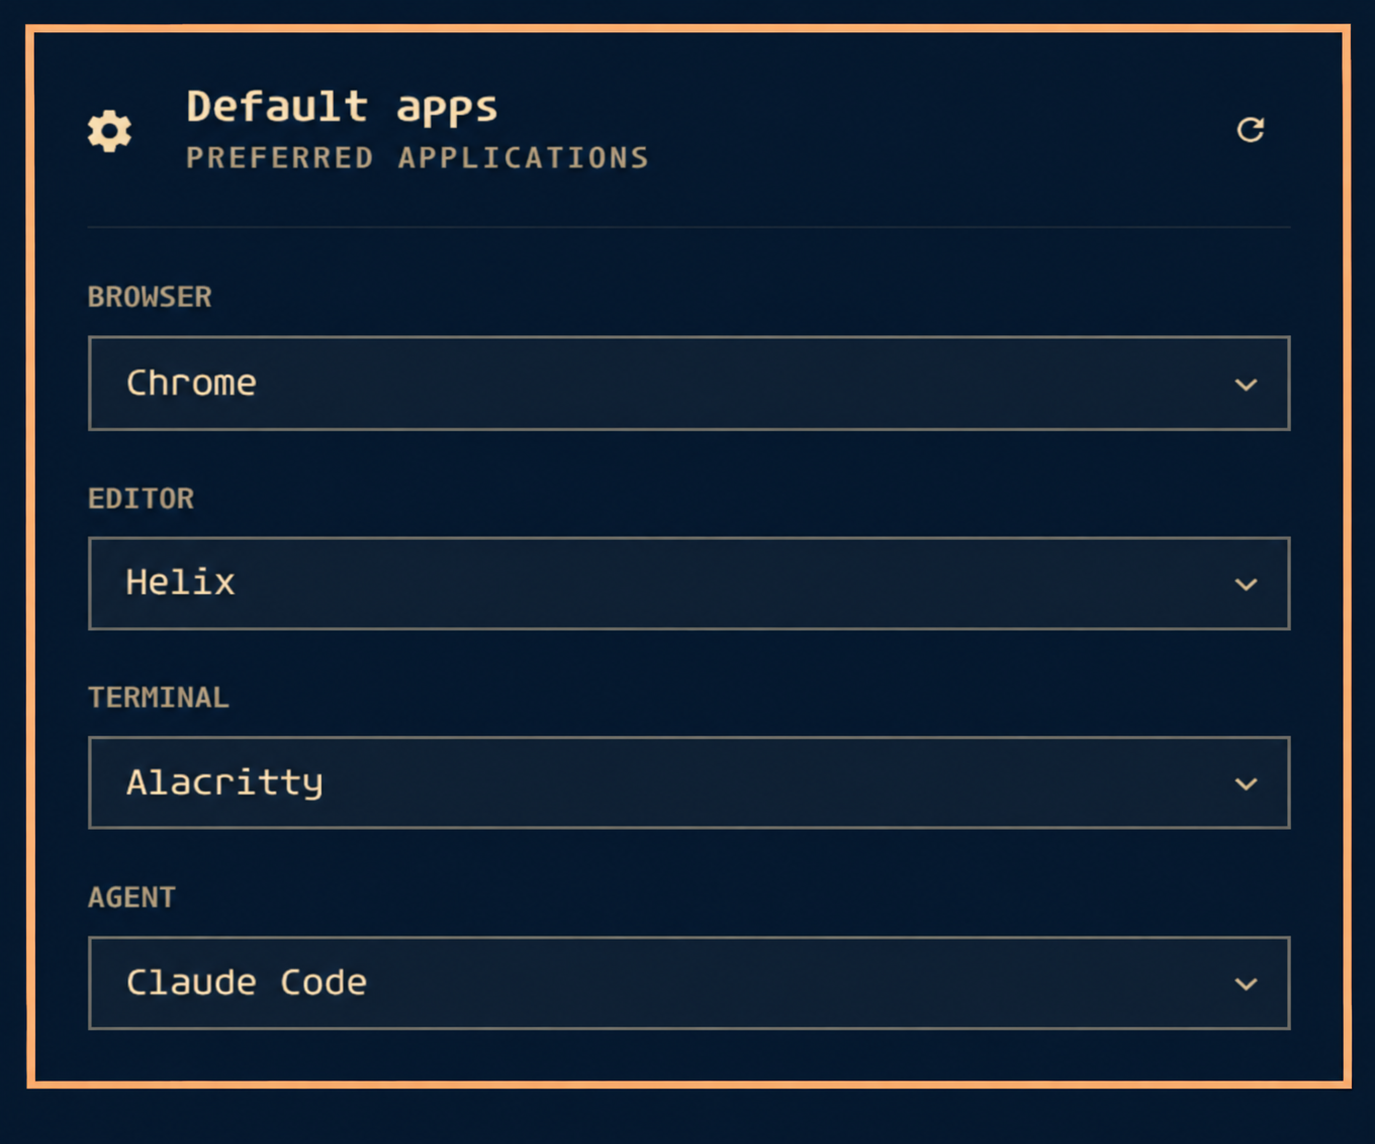
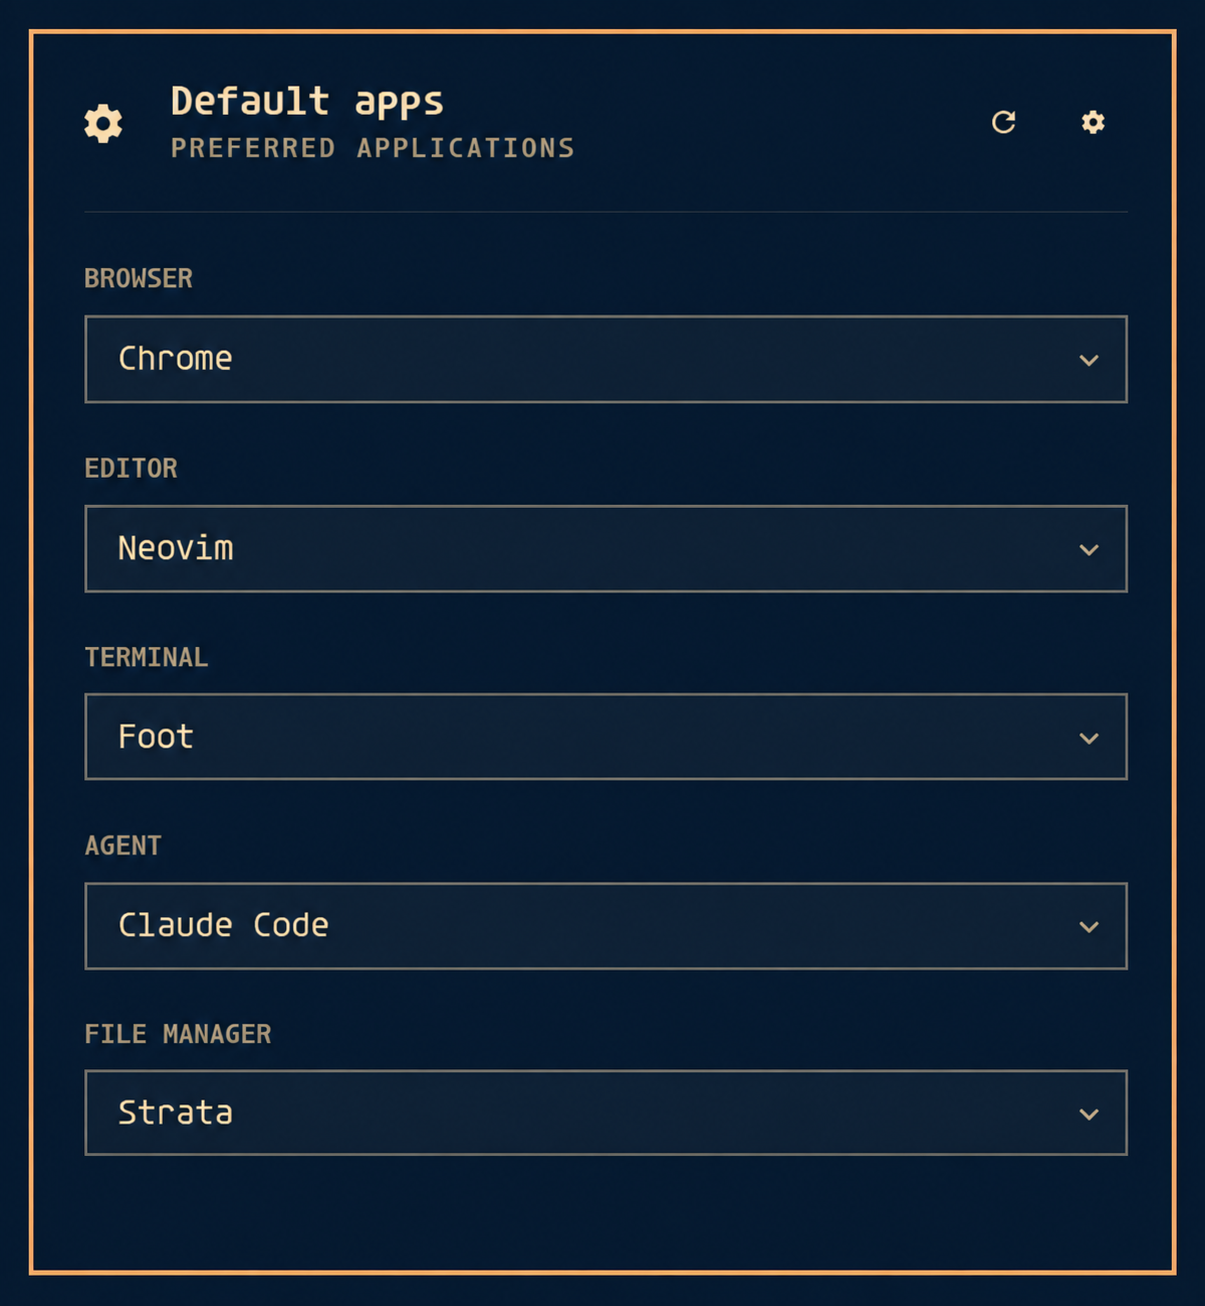
Refresh previews for file manager and category settings

Changed region(s): [[0.0, 0.0, 0.9826, 0.979], [0.0614, 0.0612, 0.4913, 0.153], [0.8905, 0.0612, 0.9212, 0.1224]]

diff --git a/README.md b/README.md
@@ -4,7 +4,7 @@ A native Omarchy bar panel for choosing your default browser, editor,
 terminal, coding agent, and file manager. Uses Omarchy's themed controls and follows the
 active shell theme. Defaults change only when you select an application.
 
-![Default Apps panel with browser, editor, terminal, and coding agent selectors](preview.png)
+![Default Apps panel with five app categories](preview.png)
 
 ## Requirements
 
@@ -91,9 +91,11 @@ o.bind("SUPER + ALT + SHIFT + F", "Default file manager (cwd)", [[xdg-open "$(om
 Run `hyprctl reload` and `hyprctl configerrors` after editing. These optional
 bindings replace any custom actions on those keys. The plugin never edits
 Hyprland configuration. To undo, remove the added bindings and restore your
-backup. The preview currently shows the earlier four-category panel.
+backup.
 
 ## Choose visible categories
+
+![Visible categories settings panel](settings-preview.png)
 
 Click the settings icon in the panel header to open **Visible categories**.
 Toggle categories there; changes save immediately. Use the back arrow or
